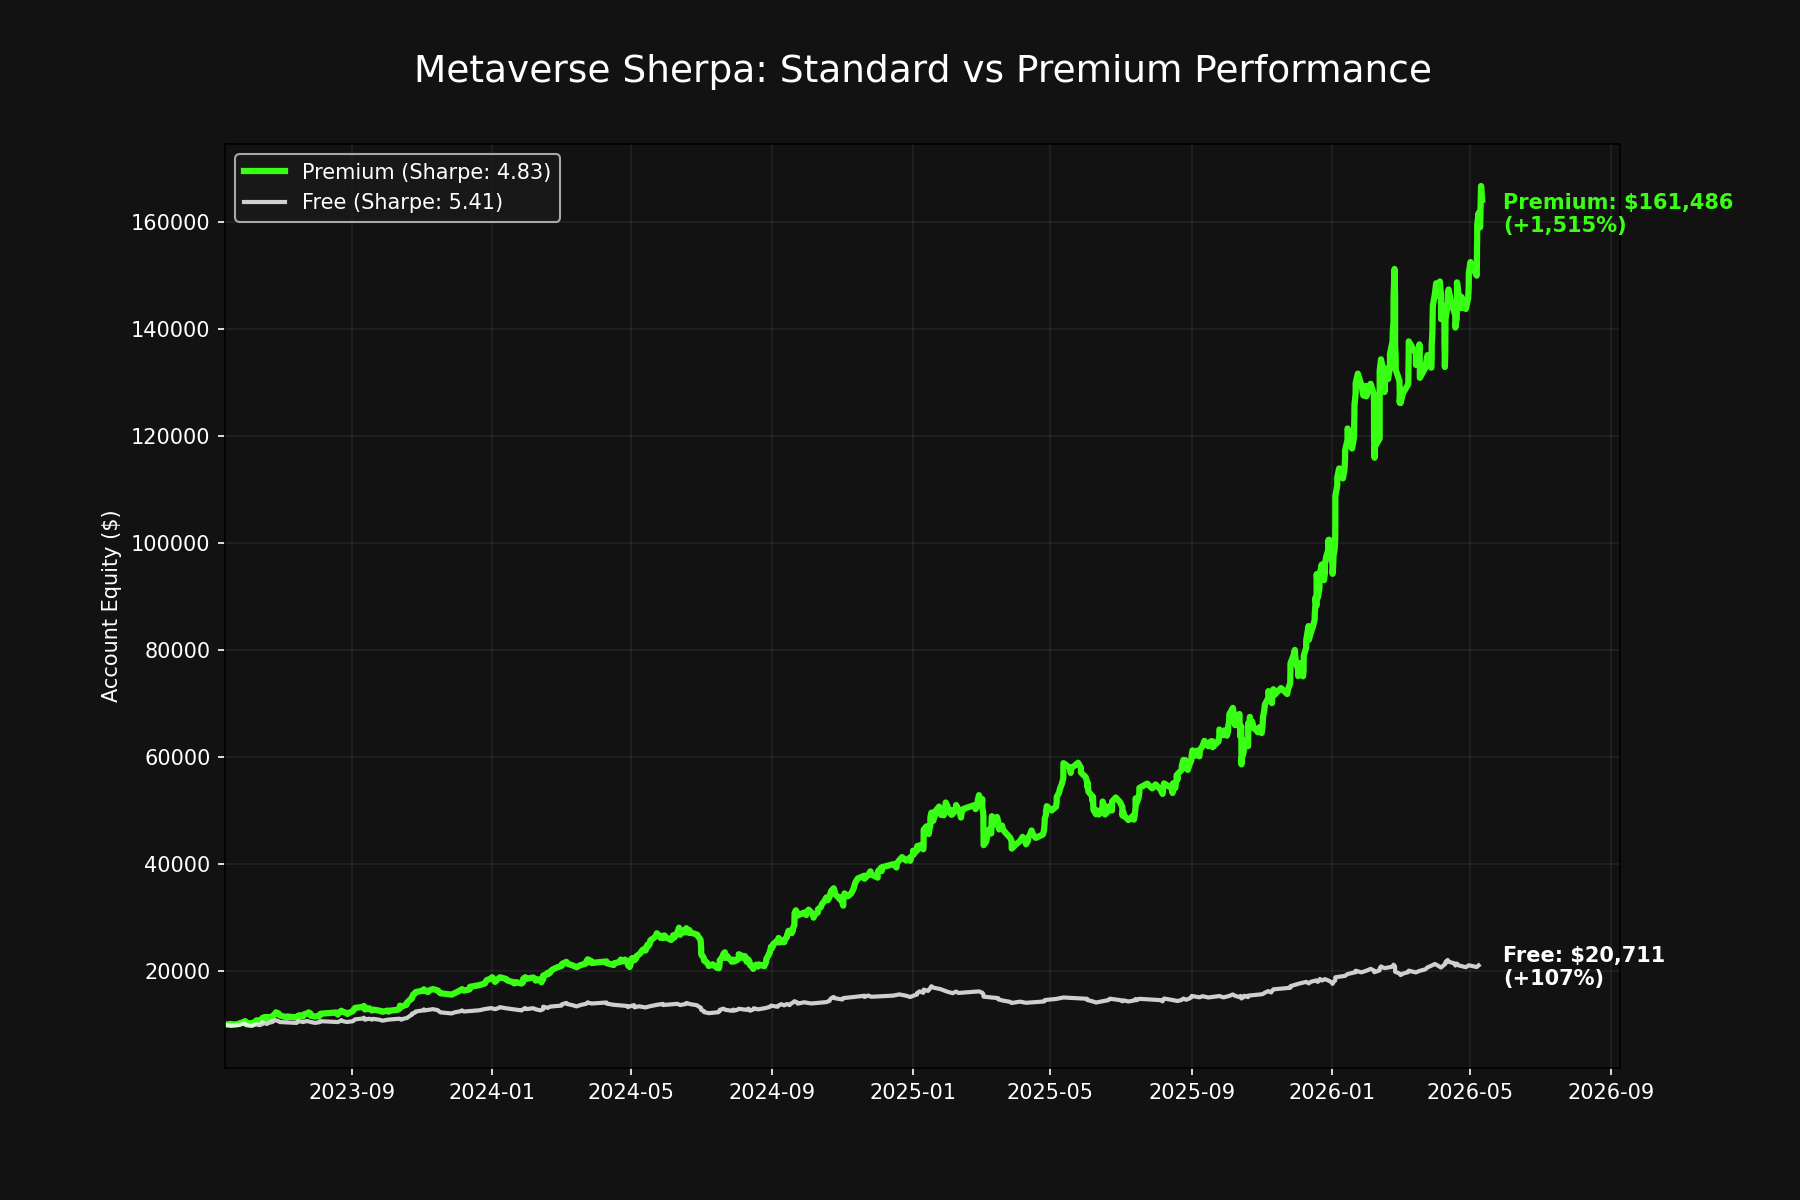
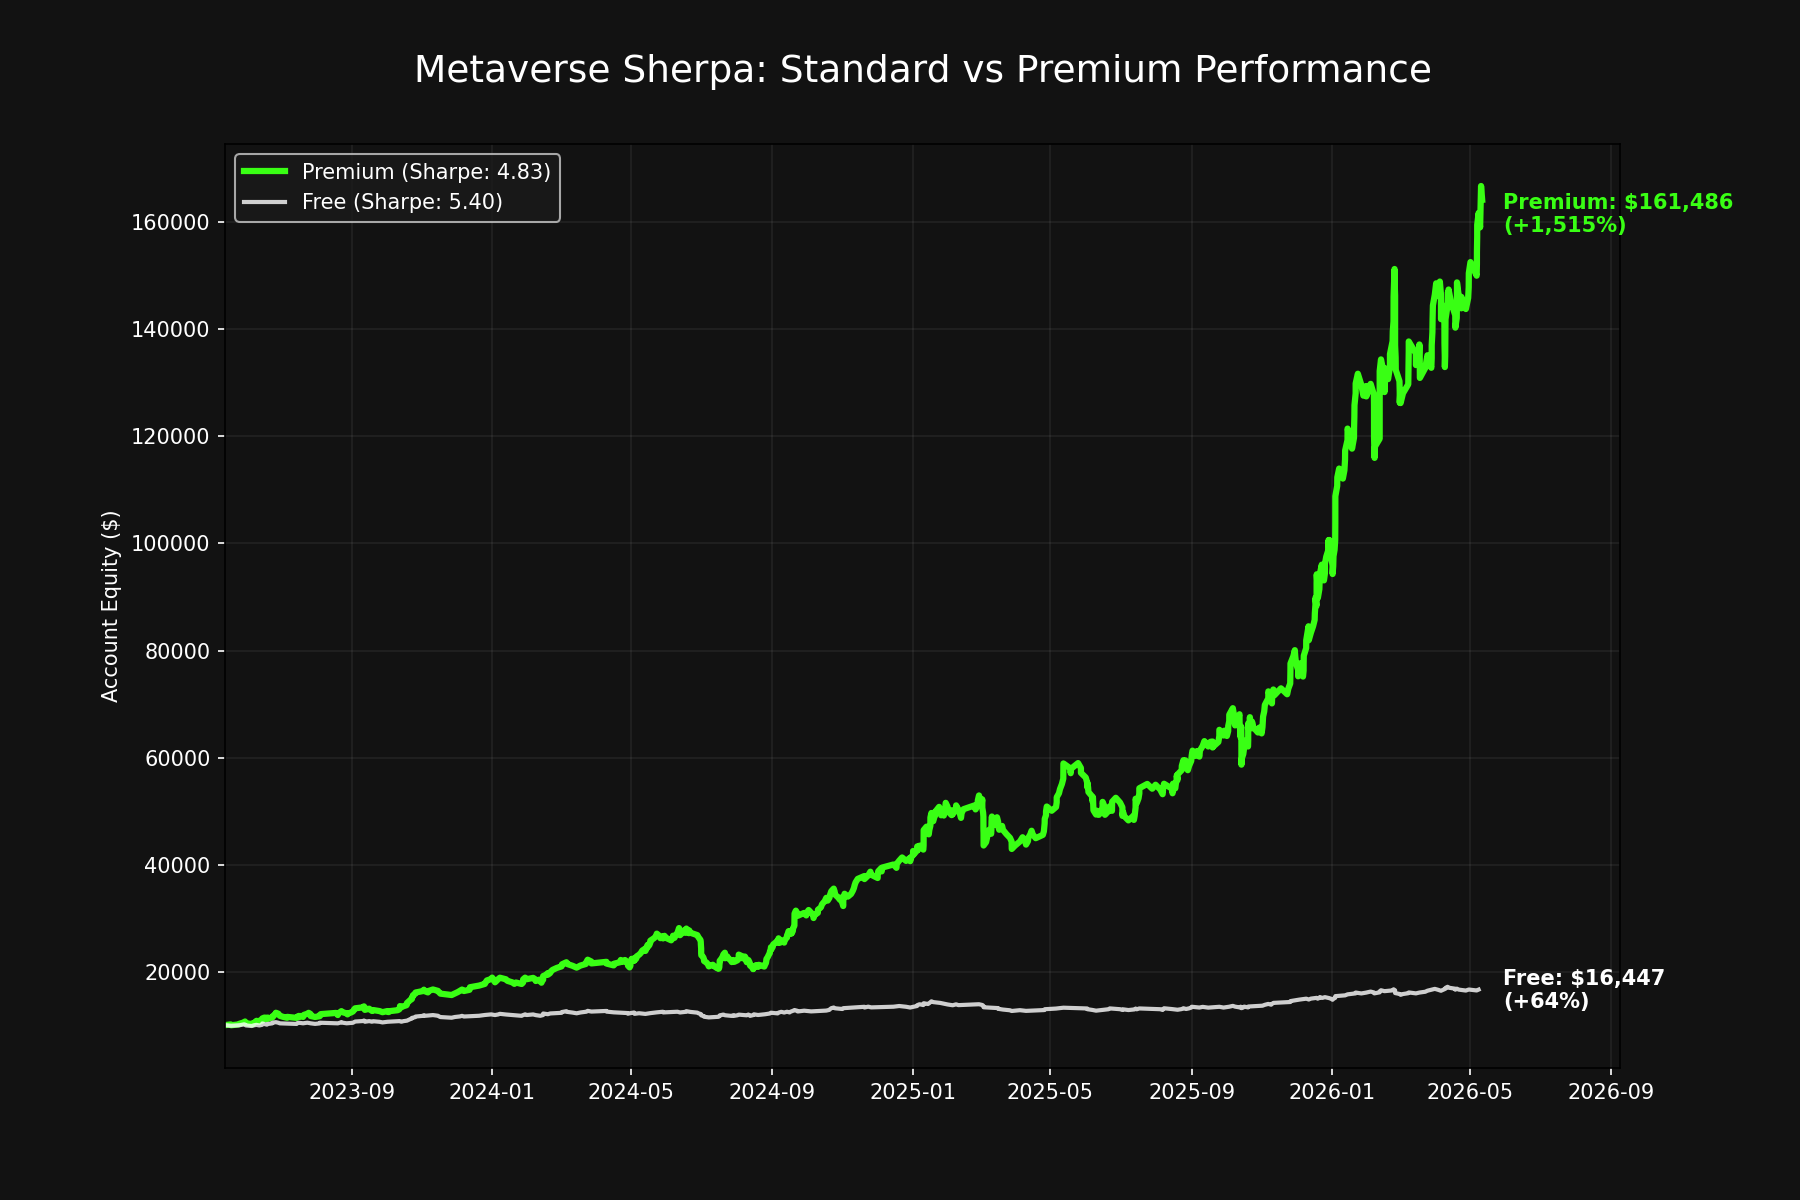
Corrected risk tiers to 1% Free vs 1.5% Premium

diff --git a/scripts/sherpa_visual_audit.py b/scripts/sherpa_visual_audit.py
@@ -222,12 +222,12 @@ def run_visual_audit(risk_val_pct=1.5, enabled_symbols=None, user_id="admin", st
 
 def generate_comparison_chart():
     """Generates a high-impact comparison chart between Standard and Institutional tiers."""
-    # 1. Run Standard (5 tokens)
-    std_stats, _ = run_visual_audit(1.5, ["BTC","ETH","SOL","DOGE","ADA"], user_id="tmp_std")
+    # 1. Run Standard (5 tokens, 1.0% Risk)
+    std_stats, _ = run_visual_audit(1.0, ["BTC","ETH","SOL","DOGE","ADA"], user_id="tmp_std")
     # Reset for Institutional
     plt.close('all')
     
-    # 2. Run Institutional (All tokens)
+    # 2. Run Institutional (All tokens, 1.5% Risk)
     inst_stats, _ = run_visual_audit(1.5, None, user_id="tmp_inst")
     plt.close('all')
     
@@ -239,7 +239,7 @@ def generate_comparison_chart():
     enabled_inst = list(SYMBOL_CONFIGS.keys())
     
     # Re-run logic for plotting
-    def get_equity_curve(syms):
+    def get_equity_curve(syms, risk_val_pct):
         datasets = {}
         for name in syms:
             path = os.path.join(CSV_DIR, f"cache_{name}_15m.csv")
@@ -258,6 +258,7 @@ def generate_comparison_chart():
             valid = pos >= 0
             aligned[name] = {k: np.where(valid, d[k][np.where(valid, pos, 0)], np.nan) for k in ["close","high","low","ema","rsi","atr","adx","bb_top","bb_bot"]}
 
+        risk_val_decimal = risk_val_pct / 100.0
         states = {name: {"in_trade": False, "side": 0, "sl": 0.0, "tp": 0.0, "size": 0.0, "risk_amt": 0.0, "wins": 0, "losses": 0} for name in datasets}
         equity = START_CASH; history = [(common_idx[0], equity)]
         for i in range(EMA_PERIOD, len(common_idx) - 1):
@@ -283,16 +284,16 @@ def generate_comparison_chart():
                     if cfg["adx"] > 0 and d["adx"][i] < cfg["adx"]: continue
                     if close > ema_v and close < bb_bot and d["rsi"][i] < cfg["rsi"]:
                         fill = close * (1 + SLIPPAGE); sl_dist = d["atr"][i] * cfg["atr"]
-                        st.update({"side": 1, "sl": fill - sl_dist, "tp": fill + sl_dist * cfg["rr"], "risk_amt": equity * (RISK_PER_TRADE), "in_trade": True})
+                        st.update({"side": 1, "sl": fill - sl_dist, "tp": fill + sl_dist * cfg["rr"], "risk_amt": equity * risk_val_decimal, "in_trade": True})
                         st["size"] = min(st["risk_amt"] / sl_dist, (equity * LEVERAGE) / fill); equity -= fill * st["size"] * COMMISSION
                     elif not cfg.get("long_only") and close < ema_v and close > bb_top and d["rsi"][i] > (100 - cfg["rsi"]):
                         fill = close * (1 - SLIPPAGE); sl_dist = d["atr"][i] * cfg["atr"]
-                        st.update({"side": -1, "sl": fill + sl_dist, "tp": fill - sl_dist * cfg["rr"], "risk_amt": equity * (RISK_PER_TRADE), "in_trade": True})
+                        st.update({"side": -1, "sl": fill + sl_dist, "tp": fill - sl_dist * cfg["rr"], "risk_amt": equity * risk_val_decimal, "in_trade": True})
                         st["size"] = min(st["risk_amt"] / sl_dist, (equity * LEVERAGE) / fill); equity -= fill * st["size"] * COMMISSION
         return pd.DataFrame(history, columns=["date", "equity"]).set_index("date")
 
-    df_std = get_equity_curve(enabled_std)
-    df_inst = get_equity_curve(enabled_inst)
+    df_std = get_equity_curve(enabled_std, 1.0)
+    df_inst = get_equity_curve(enabled_inst, 1.5)
     
     # --- Plotting ---
     plt.figure(figsize=(12, 8), facecolor="#121212")

diff --git a/telegram_bot.py b/telegram_bot.py
@@ -62,10 +62,10 @@ async def send_master_audit(update: Update, context: ContextTypes.DEFAULT_TYPE, 
     master_path = os.path.join(os.path.dirname(os.path.abspath(__file__)), "results", "upsell_comparison.png")
     audit_msg = (
         "🏔 *Metaverse Sherpa: Institutional Wealth Gap*\n"
-        "Comparison: `Free (5 Tokens)` vs `Premium (19 Tokens)`\n\n"
-        "📊 *Free Tier*: +107% PnL\n"
-        "💎 *Premium Tier*: +1,514% PnL\n\n"
-        "📈 _Institutional access captures 8x more trades, delivering superior compounding and resilience over the long term._"
+        "Comparison: `Free (1% Risk)` vs `Premium (1.5% Risk)`\n\n"
+        "📊 *Free Tier*: 5 Tokens\n"
+        "💎 *Premium Tier*: 19 Tokens\n\n"
+        "📈 _Institutional access captures 8x more trades and unlocks full compounding power, delivering superior long-term results._"
     )
     
     if os.path.exists(master_path):
@@ -96,9 +96,9 @@ async def trigger_personalized_audit(update: Update, context: ContextTypes.DEFAU
             premium_msg = (
                 "🔒 *Premium Feature: Personal Projections*\n\n"
                 "The chart above reveals the *Institutional Wealth Gap*.\n\n"
-                "📊 *Free Tier (White)*: +107% PnL\n"
-                "💎 *Premium Tier (Neon)*: +1,514% PnL\n\n"
-                "Premium access unlocks the full 'Sherpa Basket' (19 tokens) to capture 8x more compounding opportunities.\n\n"
+                "📊 *Free Tier (White)*: 1% Risk | 5 Tokens\n"
+                "💎 *Premium Tier (Neon)*: 1.5%+ Risk | 19 Tokens\n\n"
+                "Institutional access unlocks full compounding power and the complete 'Sherpa Basket' to capture 8x more opportunities.\n\n"
                 "Refer 3 friends or subscribe to unlock!"
             )
             
